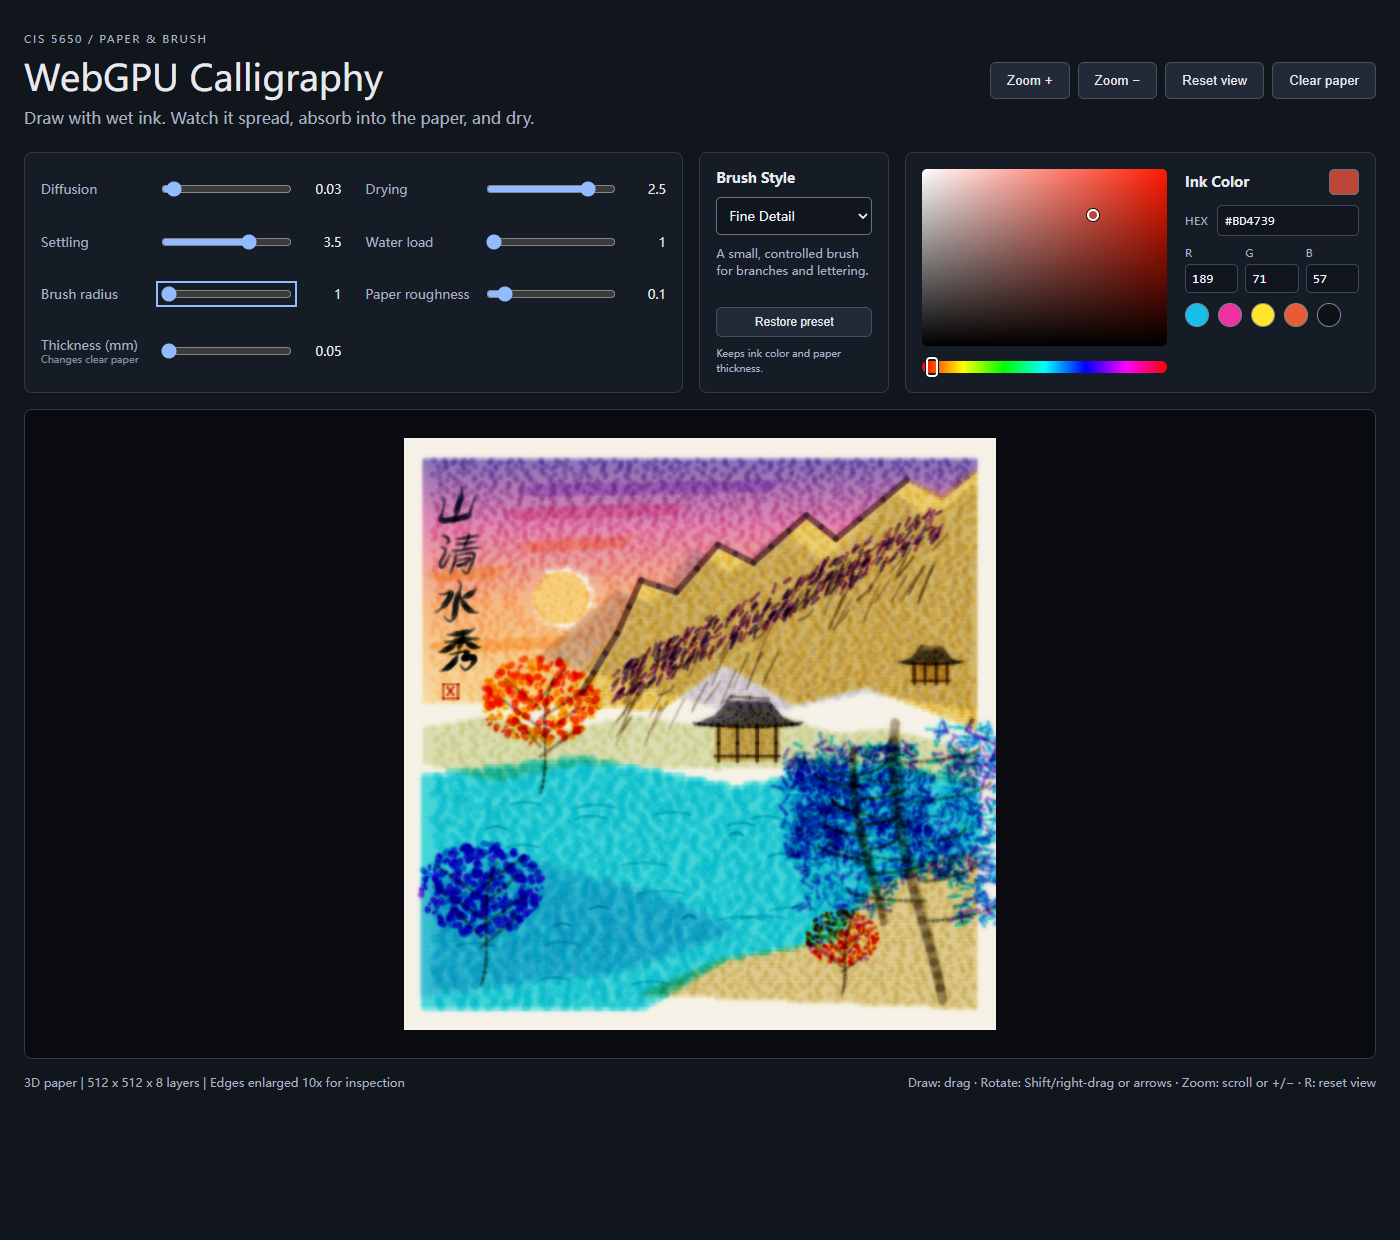
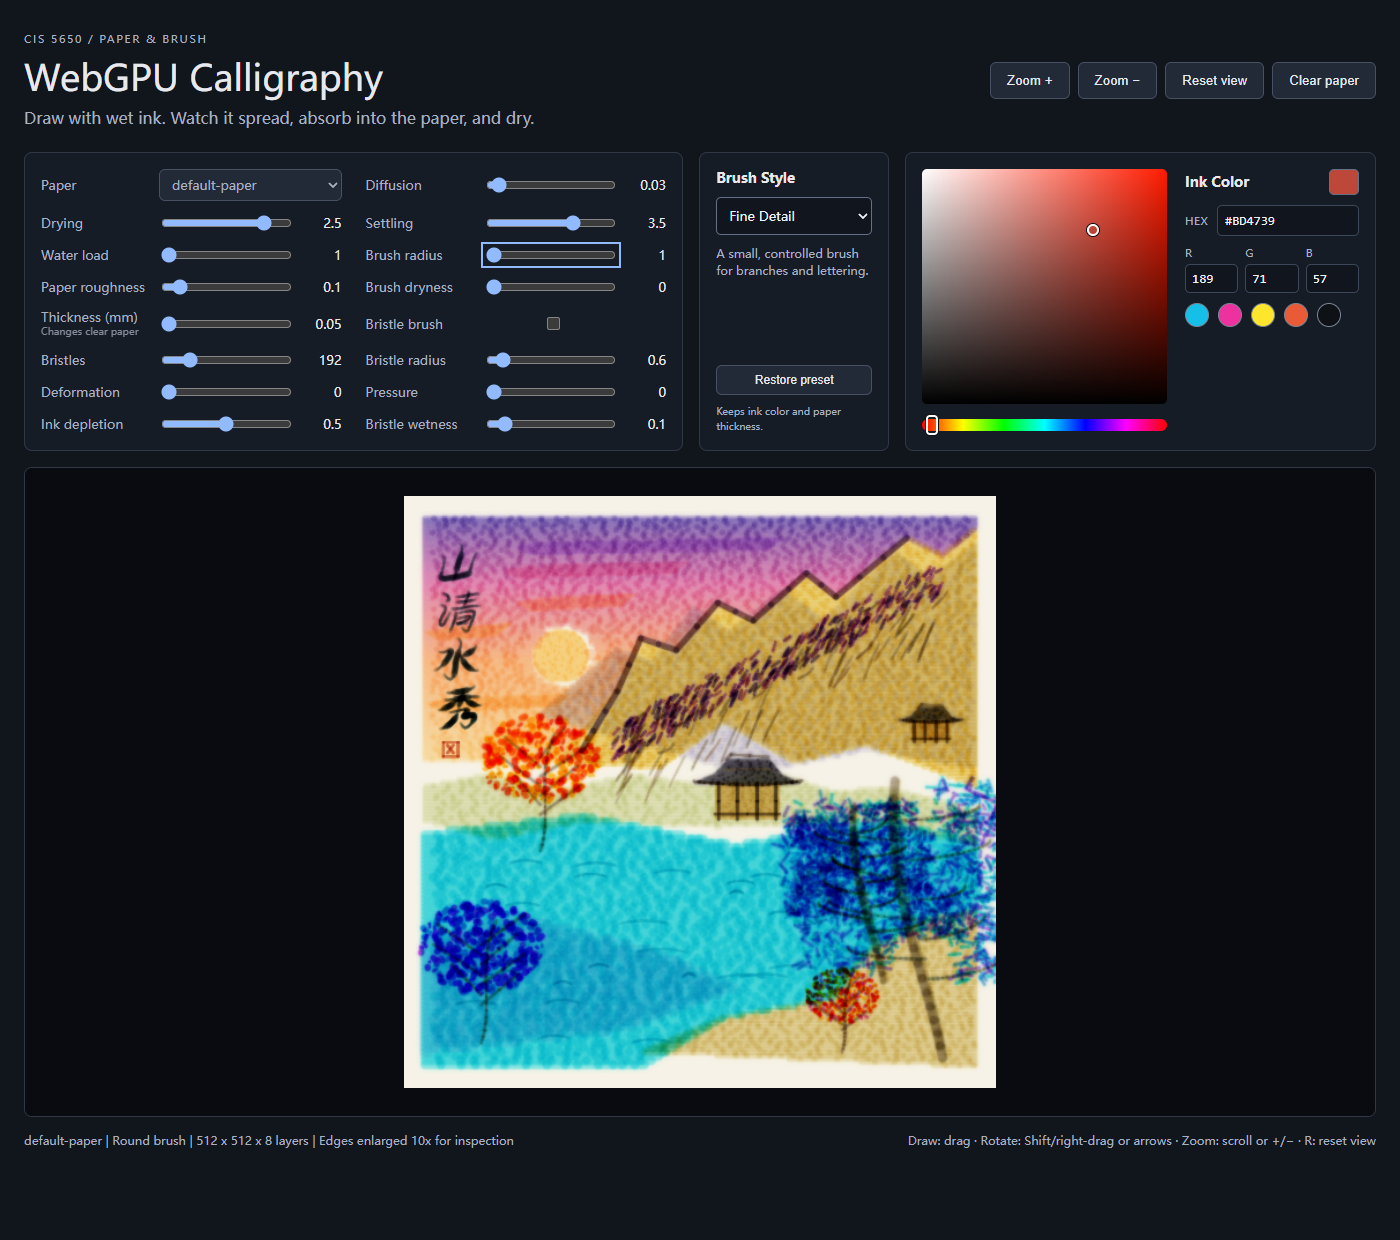
Refresh milestone demos with paper and bristle controls

diff --git a/tests/make-bristle-paper-gif.py b/tests/make-bristle-paper-gif.py
@@ -1,8 +1,8 @@
 from PIL import Image
 from pathlib import Path
 root=Path(__file__).resolve().parents[1]
-paths=sorted((root/'media/frames/bristle-paper').glob('[0-9]*.png'))
-first=Image.open(paths[0]); scale=720/first.width; size=(720,round(first.height*scale))
+paths=sorted((root/'media/frames/bristle-paper-full-page').glob('[0-9]*.png'))
+first=Image.open(paths[0]); scale=1008/first.width; size=(1008,round(first.height*scale))
 # A shared palette sampled across all scenes (inks, papers, interface) prevents colour flicker.
 samples=[Image.open(paths[i]).convert('RGB').resize((size[0]//2,size[1]//2)) for i in range(0,len(paths),max(1,len(paths)//8))]
 sheet=Image.new('RGB',(size[0]//2*len(samples),size[1]//2))

diff --git a/tests/make-milestone2-slide-gifs.py b/tests/make-milestone2-slide-gifs.py
@@ -16,7 +16,7 @@ def save_gif(path,frames,durations):
     print(path.name,len(frames),path.stat().st_size)
 manifest=json.loads((ROOT/'performance/landscape-capture.json').read_text())
 landscape=[ROOT/manifest['frameDirectory']/f'{i:04d}.png' for i in range(manifest['frames'])]
-if len(landscape)>10:
+if len(landscape)>10 and '--seepage-only' not in sys.argv:
     frames=[Image.open(p).convert('RGB').resize((1050,930),Image.Resampling.LANCZOS) for p in landscape]
     # Show the destination briefly, then draw from a blank sheet and hold the result.
     final=Image.open(ROOT/'media/landscape-interface.png').convert('RGB').resize((1050,930),Image.Resampling.LANCZOS)
